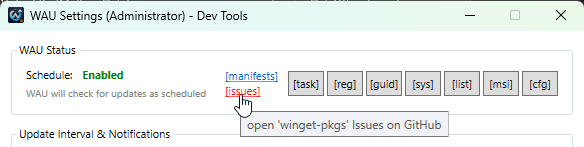
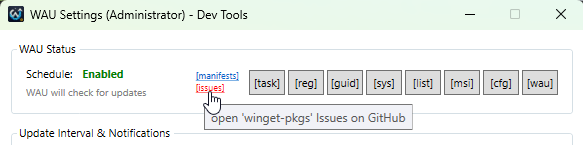
Documented

diff --git a/Sources/WAU Settings GUI/config/settings-window.xaml b/Sources/WAU Settings GUI/config/settings-window.xaml
@@ -52,11 +52,11 @@
                 <Button x:Name="DevListButton" Content="[list]" Width="36" Height="25" Visibility="Collapsed" Margin="0,0,3,0"
                     ToolTip="open the current local list"/>
                 <Button x:Name="DevMSIButton" Content="[msi]" Width="36" Height="25" Visibility="Collapsed" Margin="0,0,3,0"
-                    ToolTip="create a transform file for 'WAU.msi' using the current showing settings"/>
+                    ToolTip="create a transform file for 'WAU.msi' using current showing configuration"/>
                 <Button x:Name="DevCfgButton" Content="[cfg]" Width="36" Height="25" Visibility="Collapsed" Margin="0,0,3,0"
                     ToolTip="backup current &amp; import 'WAU' settings file"/>
                 <Button x:Name="DevWAUButton" Content="[wau]" Width="36" Height="25" Visibility="Collapsed" Margin="0,0,0,0"
-                    ToolTip="uninstall/install 'WAU'"/>
+                    ToolTip="uninstall/install 'WAU' with current showing configuration"/>
             </StackPanel>
         </Grid>
     </GroupBox>

diff --git a/README.md b/README.md
@@ -8,6 +8,8 @@ Provides a user-friendly standalone interface to modify every aspect of Winget-A
 This project depends on the following repository:
 - [Winget-AutoUpdate](https://github.com/Romanitho/Winget-AutoUpdate): has all the settings this project can handle/modify/save/restore/share and document.
 
+If **WAU** is not installed, the GUI will when starting prompt to download and install it with standard settings.
+
 ### Description
 Significantly enhance **WAU's** usability for home users while maintaining enterprise-grade functionality.<br>
 Benefits from not having to manage the settings in several places when testing etc. (great for developers)...
@@ -31,8 +33,9 @@ Configure **WAU** settings after installation, including:
   - GUID path exploration
   - WinGet system wide installed application list
   - List file management
-  - MSI transform creation
+  - MSI transform creation (using current showing configuration)
   - Configuration backup/import (i.e. for sharing settings)
+  - Uninstall/install **WAU** (with current showing configuration)
 
 NB: Must be run as Administrator (shortcut creation sets the flag)
 
@@ -40,6 +43,7 @@ NB: Must be run as Administrator (shortcut creation sets the flag)
 - Extract `Sources\WAU Settings GUI` (`Install.cmd`, `WAU-Settings-GUI.ps1` and `config`) to wherever you want to run **WAU Settings GUI** from
 - Don't place them in the **WAU** installation directory, as this will be overwritten on updates.
 - Run `Install.cmd`
+  - If **WAU** is not installed, it will prompt to download and install it with standard settings (creating a **WAU Settings (Administrator)** shortcut on your own **Desktop**).
   - Toggle the **☐|☑ Start Menu shortcuts** option in the GUI and `Save Settings`
   - Retoggle **☑|☐** and `Save Settings` again (depending on your choice)
 - The **WAU Settings (Administrator)** shortcut has now been created under **Start Menu\Programs\Winget-AutoUpdate** folder (along with the other **WAU** shortcuts) or on your own **Desktop**.

diff --git a/Sources/WAU Settings GUI/README.md b/Sources/WAU Settings GUI/README.md
@@ -2,6 +2,7 @@
 - Extract `Sources\WAU Settings GUI` (`Install.cmd`, `WAU-Settings-GUI.ps1` and `config`) to wherever you want to run **WAU Settings GUI** from
 - Don't place them in the **WAU** installation directory, as this will be overwritten on updates.
 - Run `Install.cmd`
+  - If **WAU** is not installed, it will prompt to download and install it with standard settings (creating a **WAU Settings (Administrator)** shortcut on your own **Desktop**).
   - Toggle the **☐|☑ Start Menu shortcuts** option in the GUI and `Save Settings`
   - Retoggle **☑|☐** and `Save Settings` again (depending on your choice)
 - The **WAU Settings (Administrator)** shortcut has now been created under **Start Menu\Programs\Winget-AutoUpdate** folder (along with the other **WAU** shortcuts) or on your own **Desktop**.
